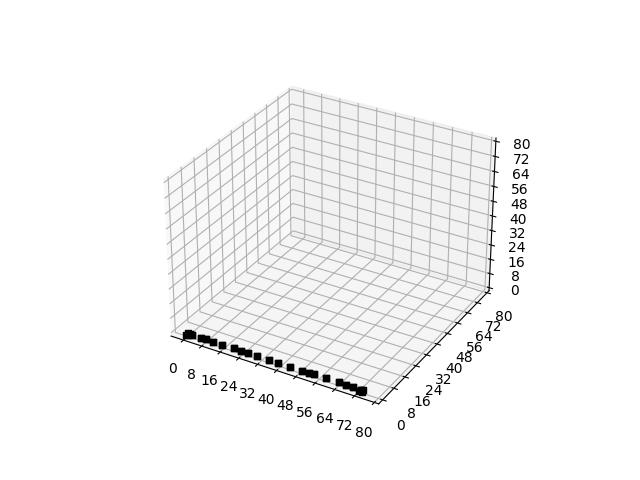
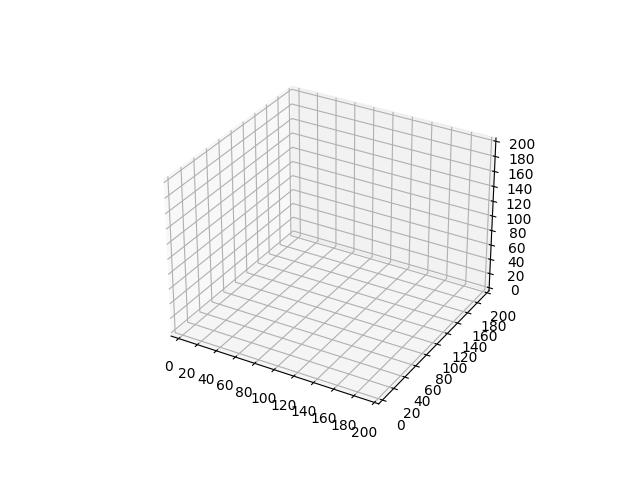
update

diff --git a/main.py b/main.py
@@ -12,7 +12,7 @@ import math
 
 list_of_placed_jumps: List[JumpType] = []
 list_of_candidates: List[JumpType] = []
-list_of_allowed_structure_types = ["SingleBlock"]
+list_of_allowed_structure_types = config.AllowedStructureTypes
 list_of_directions = ["Xpos", "Zneg", "Xneg", "Zpos"]
 # TODO: randomise seed
 rng = default_rng(283457)
@@ -68,27 +68,42 @@ def shortcut_possible(new_block: Block, earlier_structure: JumpType):
     
     return False
 
-def can_be_placed(jumptype: JumpType, current_block_position: tuple, current_forward_direction: str):
+# Returns True only if the Block is in the config defined Parkour bounds, else False
+def in_bounds(block: Block):
 
-    abs_position = compute_abs_coordinates_of_start_block(jumptype, current_block_position, current_forward_direction)
-
-    jumptype.set_absolut_coordinates(abs_position, current_forward_direction)
-
-    # TODO: Check if new Structure is in bounds of the config.ParkourVolume
     x_upper_bound = config.StartPosition[0]+config.ParkourVolume[0]
     y_upper_bound = config.StartPosition[1]+config.ParkourVolume[1]
     z_upper_bound = config.StartPosition[2]+config.ParkourVolume[2]
     
-    if jumptype.rel_start_block.abs_position[0] >= config.StartPosition[0] and jumptype.rel_start_block.abs_position[0] <= x_upper_bound:
-        if jumptype.rel_start_block.abs_position[1] >= config.StartPosition[1] and jumptype.rel_start_block.abs_position[1] <= y_upper_bound:
-            if jumptype.rel_start_block.abs_position[2] >= config.StartPosition[2] and jumptype.rel_start_block.abs_position[2] <= z_upper_bound:
-                pass
+    if block.abs_position[0] >= config.StartPosition[0] and block.abs_position[0] <= x_upper_bound:
+        if block.abs_position[1] >= config.StartPosition[1] and block.abs_position[1] <= y_upper_bound:
+            if block.abs_position[2] >= config.StartPosition[2] and block.abs_position[2] <= z_upper_bound:
+                return True
             else:
                 return False
         else:
             return False
     else:
         return False
+
+def can_be_placed(jumptype: JumpType, current_block_position: tuple, current_forward_direction: str):
+
+    abs_position = compute_abs_coordinates_of_start_block(jumptype, current_block_position, current_forward_direction)
+
+    jumptype.set_absolut_coordinates(abs_position, current_forward_direction)
+
+    # Check if new Structure is in bounds of the config.ParkourVolume
+
+    if config.EnforceParkourVolume:
+
+        if not in_bounds(jumptype.rel_start_block):
+            return False
+        if not in_bounds(jumptype.rel_finish_block):
+            return False
+        for block in jumptype.blocks:
+
+            if not in_bounds(block):
+                return False
 
 
     # For start and finish blocks
@@ -123,20 +138,30 @@ list_of_placed_jumps.append(StartBlock)
 
 # Pre-filter allowed jumptypes
 list_of_jumptypes_filtered = []
-for jumptype in list_of_jumptypes:
+if config.UseAllBlocks:
+    list_of_jumptypes_filtered = list_of_jumptypes
+else:
 
-        if jumptype.structure_type in list_of_allowed_structure_types:
-            
-            if jumptype.difficulty >= config.Difficulty - 0.2 and jumptype.difficulty <= config.Difficulty + 0.2:
+    for jumptype in list_of_jumptypes:
 
-                if jumptype.flow >= config.Flow - 0.2 and jumptype.flow <= config.Flow + 0.2:
+            if jumptype.structure_type in list_of_allowed_structure_types:
+                
+                if jumptype.difficulty >= config.Difficulty - 0.2 and jumptype.difficulty <= config.Difficulty + 0.2:
 
-                    list_of_jumptypes_filtered.append(jumptype)
+                    if jumptype.flow >= config.Flow - 0.2 and jumptype.flow <= config.Flow + 0.2:
+
+                        list_of_jumptypes_filtered.append(jumptype)
+
+
+print(f"Number of filtered jumptypes: {len(list_of_jumptypes_filtered)}")
 
 SlopesDirection = 0
 SpiralTurnCounter = 0
+try_again_counter = 0
 # Search for candidates
 for iteration in range(config.MaxParkourLength):
+
+    print(f"Iteration: {iteration+1}/{config.MaxParkourLength}")
 
     for jumptype in list_of_jumptypes_filtered:
 
@@ -146,8 +171,19 @@ for iteration in range(config.MaxParkourLength):
 
             list_of_candidates.append(jumptype_instance)
     
-    # for j in list_of_candidates:
-    #     print(j.name)
+
+    if len(list_of_candidates) == 0:
+
+        if try_again_counter >= 10:
+            break
+        else:
+            try_again_counter += 1
+
+            old_direction_index = list_of_directions.index(current_forward_direction)
+            new_direction_index = (old_direction_index + 1) % 4
+            current_forward_direction = list_of_directions[new_direction_index]
+            continue
+        
     
     # Choose randomly from list of candidates
     random_index = rng.integers(low=0, high=len(list_of_candidates))
@@ -159,7 +195,6 @@ for iteration in range(config.MaxParkourLength):
     # Set new absolute coordinates for next iteration
     current_block_position = next_jump.rel_finish_block.abs_position
 
-    # TODO: Set new forward direction for next iteration
 
     if config.ParkourType == "Random":
         # Choose possible other directions at random
@@ -263,7 +298,7 @@ list_of_placed_jumps.append(FinishBlock)
 print("Filling 3D array")
 if config.EnforceParkourVolume:
 
-    array_3d = np.zeros(config.ParkourVolume, dtype=int)
+    max_axis_distance = max(config.ParkourVolume)
 else:
 
     furthest_block = (0, 0, 0)
@@ -308,7 +343,6 @@ else:
     
     max_axis_distance = max(furthest_block) + 10
     # print(max_axis_distance)
-    array_3d = np.zeros((max_axis_distance, max_axis_distance, max_axis_distance), dtype=int)
 
 
 
@@ -316,22 +350,13 @@ fig = plt.figure()
 ax = fig.add_subplot(projection='3d')
 
 for placed_jump in list_of_placed_jumps:
-    print(placed_jump)
-
-    # print(placed_jump.rel_start_block.abs_position)
-    # print(placed_jump.rel_finish_block.abs_position)
     
-    # array_3d[placed_jump.rel_start_block.abs_position[0]][placed_jump.rel_start_block.abs_position[2]][placed_jump.rel_start_block.abs_position[1]] = 1
-    # array_3d[placed_jump.rel_finish_block.abs_position[0]][placed_jump.rel_finish_block.abs_position[2]][placed_jump.rel_finish_block.abs_position[1]] = 1
-    
-    ax.scatter(placed_jump.rel_start_block.abs_position[0], placed_jump.rel_start_block.abs_position[2], placed_jump.rel_start_block.abs_position[1], c=["black"], marker="s")
-    ax.scatter(placed_jump.rel_finish_block.abs_position[0], placed_jump.rel_finish_block.abs_position[2], placed_jump.rel_finish_block.abs_position[1], c=["black"], marker="s")
+    ax.scatter(placed_jump.rel_start_block.abs_position[0], placed_jump.rel_start_block.abs_position[2], placed_jump.rel_start_block.abs_position[1], c=["black"], marker="s", s=1)
+    ax.scatter(placed_jump.rel_finish_block.abs_position[0], placed_jump.rel_finish_block.abs_position[2], placed_jump.rel_finish_block.abs_position[1], c=["black"], marker="s", s=1)
 
     for block in placed_jump.blocks:
 
-        # array_3d[block.abs_position[0]][block.abs_position[2]][block.abs_position[1]] = 1
-
-        ax.scatter(block.abs_position[0], block.abs_position[2], block.abs_position[1], c=["black"], marker="s")
+        ax.scatter(block.abs_position[0], block.abs_position[2], block.abs_position[1], c=["black"], marker="s", s=1)
 
 
 
@@ -340,9 +365,10 @@ for placed_jump in list_of_placed_jumps:
 
 
 print("Generating plot")
-ax.set_xticks(np.arange(0, max_axis_distance, max_axis_distance//10))
-ax.set_yticks(np.arange(0, max_axis_distance, max_axis_distance//10))
-ax.set_zticks(np.arange(0, max_axis_distance, max_axis_distance//10))
+stepsize = max_axis_distance//10
+ax.set_xticks(np.arange(0, max_axis_distance+stepsize, stepsize))
+ax.set_yticks(np.arange(0, max_axis_distance+stepsize, stepsize))
+ax.set_zticks(np.arange(0, max_axis_distance+stepsize, stepsize))
 
 if config.PlotFileType == "jpg":
 

diff --git a/config.py b/config.py
@@ -4,14 +4,17 @@ ParkourVolume = (200, 200, 200)
 EnforceParkourVolume = True
 FillParkourVolumeWithAirFirst = True  # Only works when EnforceParkourVolume is set to True
 MaxParkourLength = 100
+
 CheckPointsEnabled = False
 CheckPointsPeriod = 5  # After 5 normal jumptypes follows one checkpoint
 
-Difficulty = 0.4  # Choose parkour difficulty in range [0.0, 1.0]. 0.0 - very easy, 1.0 - very hard
+UseAllBlocks = True  # Set to False for the below settings to take effect. Set to True to use all JumpTypes for generation.
+AllowedStructureTypes = ["SingleBlock"]
+Difficulty = 0.3  # Choose parkour difficulty in range [0.0, 1.0]. 0.0 - very easy, 1.0 - very hard
 Flow = 0.8        # Choose how fast/flowing/fluent the parkour is to traverse in range [0.0, 1.0]. 0.0 - slow/ahlting, 1.0 - fast/fluent
 
 ParkourType = "StraightSlopes"  # UpwardSpiral, StraightAscending, Straight, StraightSlopes, Random
-StraightSlopesSize = 1  # Values: 1 - 10, Changes how frequently the parkour direction changes: 1 - very often, 10 - rarely
+StraightSlopesSize = 5  # Values: 1 - 10, Changes how frequently the parkour direction changes: 1 - very often, 10 - rarely
 SpiralRotation = "counterclockwise"  # clockwise, counterclockwise
 SpiralType = "Even"  # Random, Even
 SpiralTurnRate = 5  # After how many jumps the Spiral will change direction. Only works with SpiralType = "Even"
